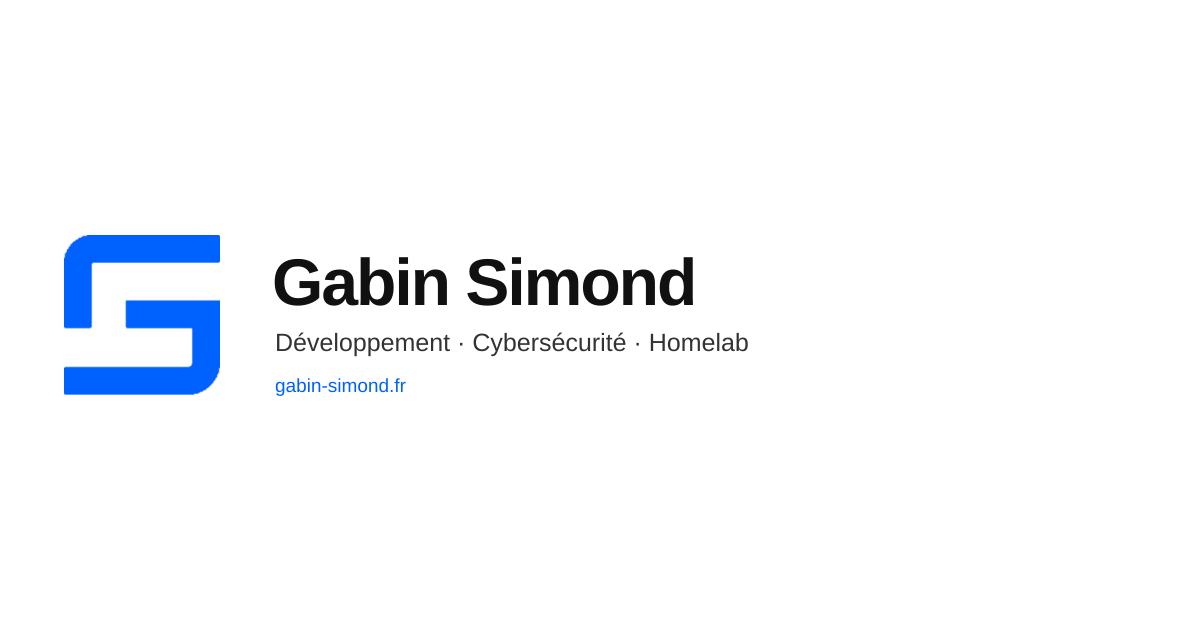
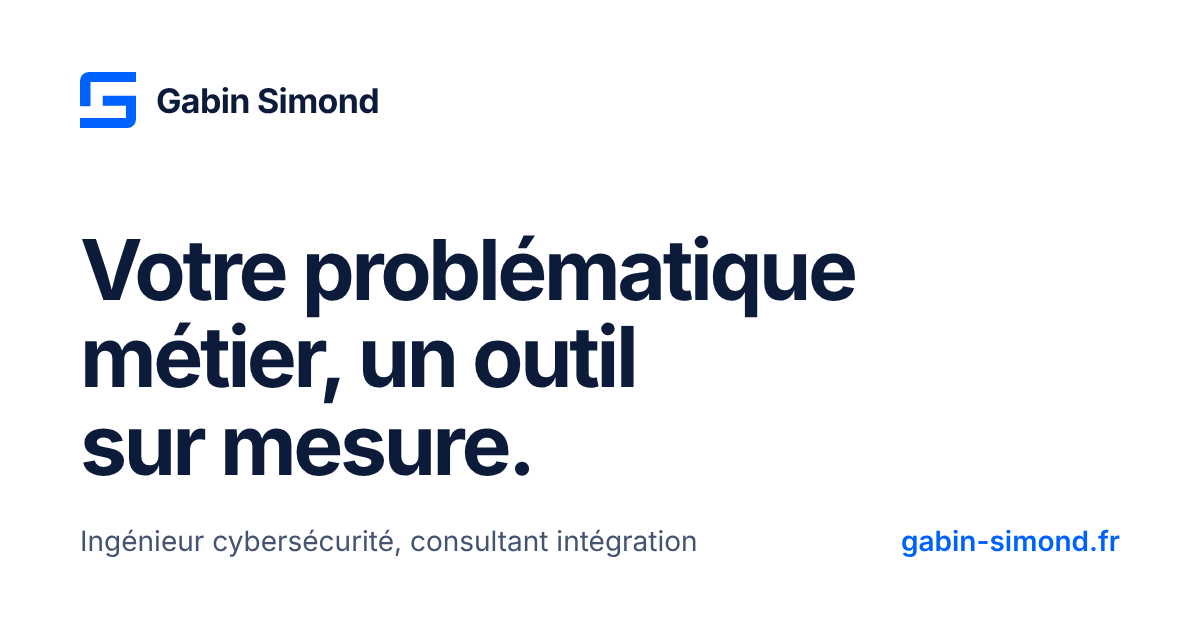
Refresh the link preview image with the new positioning
Claude-Session: https://claude.ai/code/session_01SySVUFzPpryXicbpoiHcY2

diff --git a/index.html b/index.html
@@ -19,7 +19,7 @@
   <meta property="og:image" content="https://gabin-simond.fr/images/og.png">
   <meta property="og:image:width" content="1200">
   <meta property="og:image:height" content="630">
-  <meta property="og:image:alt" content="Gabin Simond. Développement, cybersécurité, homelab. gabin-simond.fr">
+  <meta property="og:image:alt" content="Gabin Simond. Votre problématique métier, un outil sur mesure. Ingénieur cybersécurité, consultant intégration. gabin-simond.fr">
   <meta name="twitter:card" content="summary_large_image">
   <link rel="icon" href="favicon.svg" type="image/svg+xml">
   <link rel="apple-touch-icon" href="apple-touch-icon.png">
